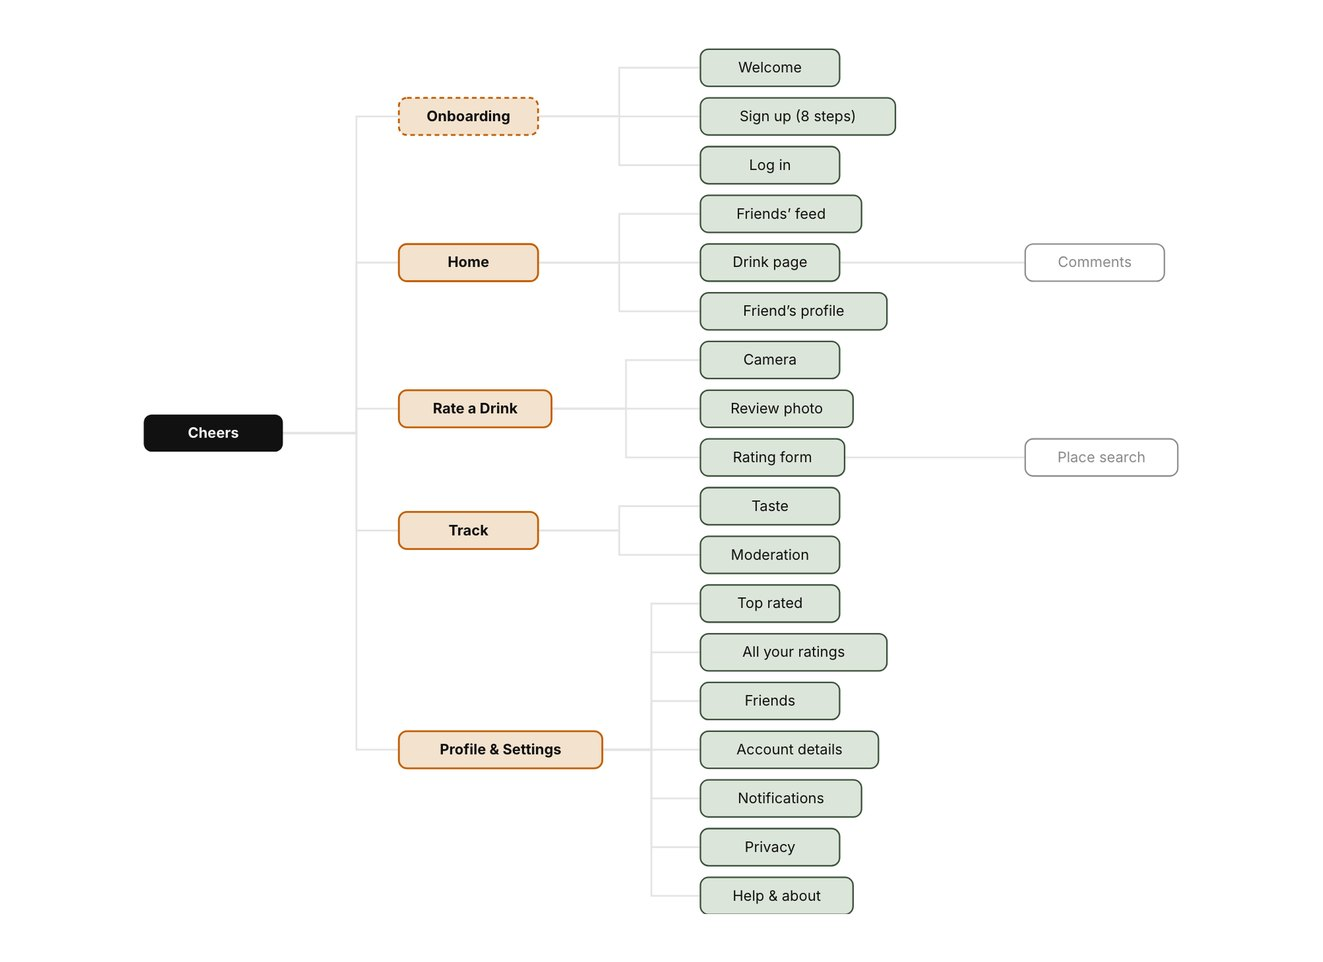
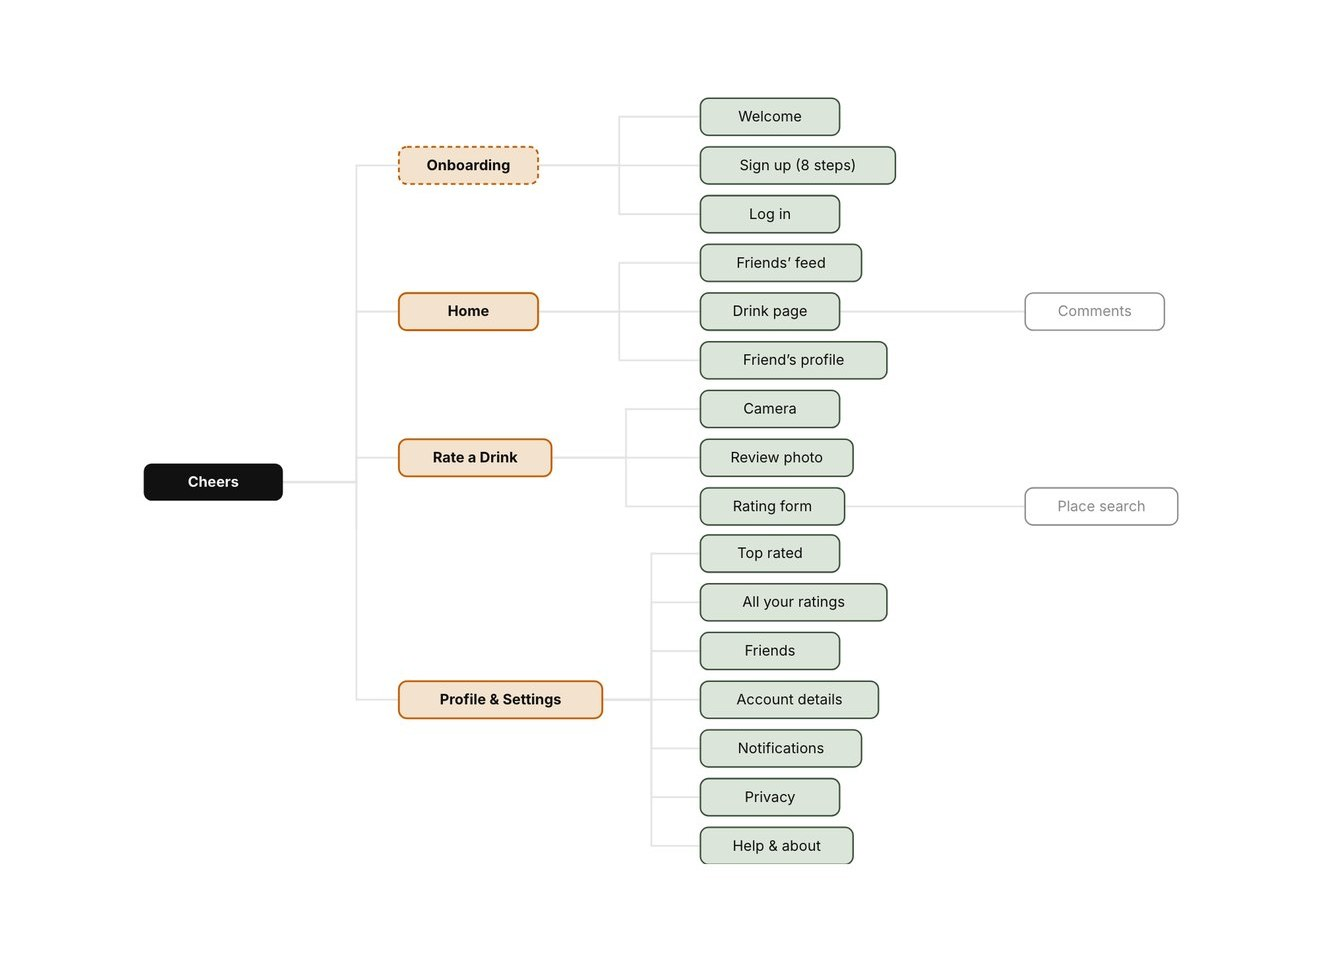
Remove Track from the Cheers case study

diff --git a/cheers.html b/cheers.html
@@ -114,7 +114,7 @@
     <div class="decisions">
       <section class="card decision" style="--tint: var(--peach);">
         <div class="decision-text">
-          <span class="label">Decision 01 / 04</span>
+          <span class="label">Decision 01 / 03</span>
           <h3>Start with the camera</h3>
           <dl class="why">
             <div><dt>What I found</dt><dd>Jamie already takes photos of new drinks, but won't bother with anything that takes more than a few taps.</dd></div>
@@ -126,7 +126,7 @@
 
       <section class="card decision" style="--tint: var(--butter);">
         <div class="decision-text">
-          <span class="label">Decision 02 / 04</span>
+          <span class="label">Decision 02 / 03</span>
           <h3>One score out of ten for every drink</h3>
           <dl class="why">
             <div><dt>What I found</dt><dd>Jamie drinks everything from stouts to spritzes, and already gives drinks a score out of ten with friends. Beer-only apps and five-star ratings didn't fit.</dd></div>
@@ -138,7 +138,7 @@
 
       <section class="card decision" style="--tint: var(--sky);">
         <div class="decision-text">
-          <span class="label">Decision 03 / 04</span>
+          <span class="label">Decision 03 / 03</span>
           <h3>Friends only</h3>
           <dl class="why">
             <div><dt>What I found</dt><dd>Priya trusts her friends' taste more than reviews, and doesn't want her drinks to be public.</dd></div>
@@ -146,18 +146,6 @@
           </dl>
         </div>
         <div class="decision-media"><picture><source srcset="Cheers/Screens/cheered.avif" type="image/avif" /><img loading="lazy" decoding="async" src="Cheers/Screens/cheered.jpg" width="590" height="1278" alt="A friend's post with the Cheers! button tapped" /></picture></div>
-      </section>
-
-      <section class="card decision" style="--tint: var(--mint);">
-        <div class="decision-text">
-          <span class="label">Decision 04 / 04</span>
-          <h3>Cut the Track tab to keep the first version simple</h3>
-          <dl class="why">
-            <div><dt>What I found</dt><dd>I'd designed and built a third tab, Track, for taste stats and drink-free days. It repeated the Top rated row on the profile, its charts were empty for new users, and drink-free days guessed from posts were often wrong. I'd already taken alcohol units out of it, because that counts as health data and could encourage drinking more.</dd></div>
-            <div><dt>What I did</dt><dd>I hid Track for the first version, leaving two tabs, Home and Profile, next to the rate button. Every screen now points at the main thing: take a photo, rate it, share it. Track can be switched back on if testing shows people want it.</dd></div>
-          </dl>
-        </div>
-        <div class="decision-media"><picture><source srcset="Cheers/Screens/profile.avif" type="image/avif" /><img loading="lazy" decoding="async" src="Cheers/Screens/profile.jpg" width="590" height="1278" alt="The profile, with Top rated and All ratings, and a tab bar of just Home and Profile" /></picture></div>
       </section>
     </div>
 
@@ -168,13 +156,13 @@
         <h2>Making rating easy to reach.</h2>
       </div>
       <div class="body">
-        <p>I mapped out every screen. Home, Track and Profile started as tabs, and rating a drink got its own + button, because it's what people will do most. The first version ships with just Home and Profile (see decision 04).</p>
+        <p>I mapped out every screen. Home and Profile became tabs, and rating a drink got its own + button, because it's what people will do most.</p>
         <p>I then mapped the two most important flows: signing up for the first time, and adding a friend.</p>
       </div>
     </section>
 
     <section class="frames" aria-label="Structure and user flows">
-      <picture><source srcset="Cheers/Research/floor-plan-map.avif" type="image/avif" /><img loading="lazy" decoding="async" src="Cheers/Research/floor-plan-map.jpg" width="1323" height="962" alt="App structure: Onboarding, Home, Rate a Drink, Track, and Profile and Settings, each with its screens" /></picture>
+      <picture><source srcset="Cheers/Research/floor-plan-map.avif" type="image/avif" /><img loading="lazy" decoding="async" src="Cheers/Research/floor-plan-map.jpg" width="1323" height="962" alt="App structure: Onboarding, Home, Rate a Drink, and Profile and Settings, each with its screens" /></picture>
       <picture><source srcset="Cheers/Research/second-round-flow.avif" type="image/avif" /><img loading="lazy" decoding="async" src="Cheers/Research/second-round-flow.jpg" width="1323" height="962" alt="Two user flows: first-time onboarding, and adding a friend" /></picture>
     </section>
 
@@ -198,9 +186,8 @@
       <picture><source srcset="Cheers/Research/small-batch-frames.avif" type="image/avif" /><img loading="lazy" decoding="async" src="Cheers/Research/small-batch-frames.jpg" width="1240" height="556" alt="Five wireframes for rating a drink: camera, review photo, rating form, add location, posted" /></picture>
     </section>
 
-    <section class="frames" aria-label="Onboarding and ratings wireframes">
+    <section class="frames narrow" aria-label="Onboarding wireframes">
       <picture><source srcset="Cheers/Research/first-sip-frames.avif" type="image/avif" /><img loading="lazy" decoding="async" src="Cheers/Research/first-sip-frames.jpg" width="1323" height="962" alt="Three onboarding wireframes: welcome, a sign-up step, and Home on first use" /></picture>
-      <picture><source srcset="Cheers/Research/running-tab-frames.avif" type="image/avif" /><img loading="lazy" decoding="async" src="Cheers/Research/running-tab-frames.jpg" width="1323" height="962" alt="Five wireframes: profile, a drink's page, and Track's taste, by-type and moderation views" /></picture>
     </section>
 
     <section class="card dark" style="--tint: var(--cheers);">
@@ -233,7 +220,7 @@
         <h2>What I learned and what's next.</h2>
       </div>
       <div class="body">
-        <p>Building the app myself, with help from Claude Code, changed how I designed. I had to think beyond the screens, about things like Apple's rules on location search and whether the AI feature was worth what it cost. I also learned to cut finished work: Track was built and working, but hiding it made the app clearer.</p>
+        <p>Building the app myself, with help from Claude Code, changed how I designed. I had to think beyond the screens, about things like Apple's rules on location search and whether the AI feature was worth what it cost.</p>
         <p>The personas are still based on assumptions, so the next stage is user testing. I'll start with a few friends using the app, to see if rating is quick enough and whether seeing friends' ratings gets people trying new drinks.</p>
       </div>
     </section>
